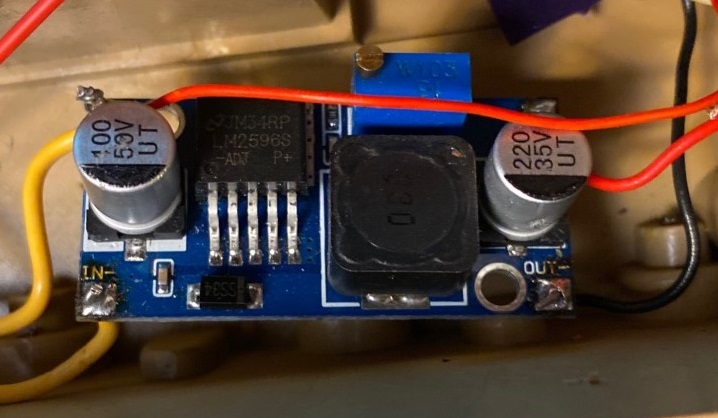
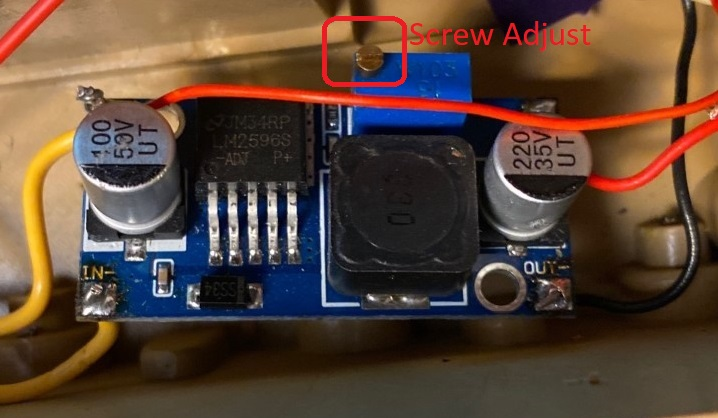
Lesson 1

Changed region(s): [[0.429, 0.0311, 0.8273, 0.2177]]

diff --git a/docs/lessonRegulator.html b/docs/lessonRegulator.html
@@ -1,0 +1,16 @@
+<h1>Voltage Regulator</h1>
+
+<h2>Discussion</h2>
+  These devices are found on ebay for about $0.50: <a href="https://www.ebay.com/itm/2x-LM2596-DC-DC-Adjustable-Step-Down-Power-Module-7V-35V-to-1-25V-30V-3A-DC-DC/323273762102?ssPageName=STRK%3AMEBIDX%3AIT&_trksid=p2057872.m2749.l2649">here</a><br>
+  There are little big, but extremely reliable.   I've never had one that actually failed<br>
+  We use 2 of them on our project.   Both take the battery 7.4V as input.<br>
+  One is used for the Camera 3.3V and passed from the chasis to the turret<br>
+  One is used for the arduino-nano at 5v, but possibly 3.3V could work for that also<br>
+  The only issue is that the turret motor uses 5V to drive but that could be obtained from the H-Bridge<br>  
+<hr>
+<h2>Homework</h2>
+  Attach the input to at least 7 V or more it can handle 30V DC<br>
+  Then use the screw adjust and a voltmeter to change the voltage output to 5v and 3.3V<br>
+<img src="images/voltageRegulator.jpg"><br>
+<hr>
+<hr>

diff --git a/docs/esp32WebCam.html b/docs/esp32WebCam.html
@@ -9,8 +9,15 @@
    <li>The ESP32 Web Cam <b>shall</b> stream its output to a web-page</li>   
    <li>The ESP32 Web Cam <b>shall</b> be located in the tank-commander's cupola</li>   
 </ul>
-<h2>Discussion</h2>
-   This device's streaming port is located in the arduino sketch.<br>
+<h2>What you need to know:</h2>
+<ol>
+  <li>When this web-cam logs into the network, the router will tell it its ip address.</li>
+  <li>Each web-cam will have its own port where the camera page is visible</li>
+  <li>This port and ip address needs to be "port-forwarded" to the outside internet</li>   
+</ol>
+<h2>Extra info</h2>
+   The arduino sketch contains the port for each web-cam and must be modified and "flashed" on each device.<br>
+   This device requires a 3.3V power supply which comes from the chasis<br>
 <hr>
 <img src="images/esp32WebCam.jpg"><br>
 <hr>

diff --git a/tankControl/webSocket/index.html b/tankControl/webSocket/index.html
@@ -213,9 +213,9 @@
             Also:from a cmd windows: nslookup rctankonline.ddns.net<br>
             Try: rctankonline.ddns.net for server address<br>
             Server Ip Address: <Select name="ipAddress" id="ipAddress"> 
+                                   <option value="192.168.0.15">192.168.0.15</option>
                                    <option value="192.168.4.1">192.168.4.1</option>
                                    <option value="173.21.121.125">173.21.121.125</option>
-                                   <option value="192.168.0.15">192.168.0.15</option>
                                </Select>:9876<input type="button" onclick=";" value="connect" id="connectToServer">
          
             <div class="state">

diff --git a/docs/index.html b/docs/index.html
@@ -2,6 +2,10 @@
   <h2>Graphically driven Documentation (Click on the image)</h2>
   <a href="openTank.html"><img src="images/outsideTank.jpg"></a><br>
   <hr>
+  <h2>Lessons</h2>
+  <ol>
+    <li><a href="lessonRegulator.html">Voltage Regulator</a></li>
+  </ol>
   <h2>Original Documentation</h2>
   The RC vehicle project utilizes a variety of language files and hardware components:
   Language files:  

diff --git a/tankControl/webSocket/webSocketServer.py b/tankControl/webSocket/webSocketServer.py
@@ -12,8 +12,8 @@ import sys
 
 cameraIpAddresses = {}
 cameraIpAddresses ['Tiger']  = '192.168.0.4:81/stream'
-cameraIpAddresses ['King Tiger'] = '192.168.0.7:82/stream'
-cameraIpAddresses ['Other'] = '192.168.0.8:83/stream'
+cameraIpAddresses ['King Tiger'] = '192.168.0.8:82/stream'
+cameraIpAddresses ['Other'] = '192.168.0.9:83/stream'
 
 udpCount = 0
 quit = False 
